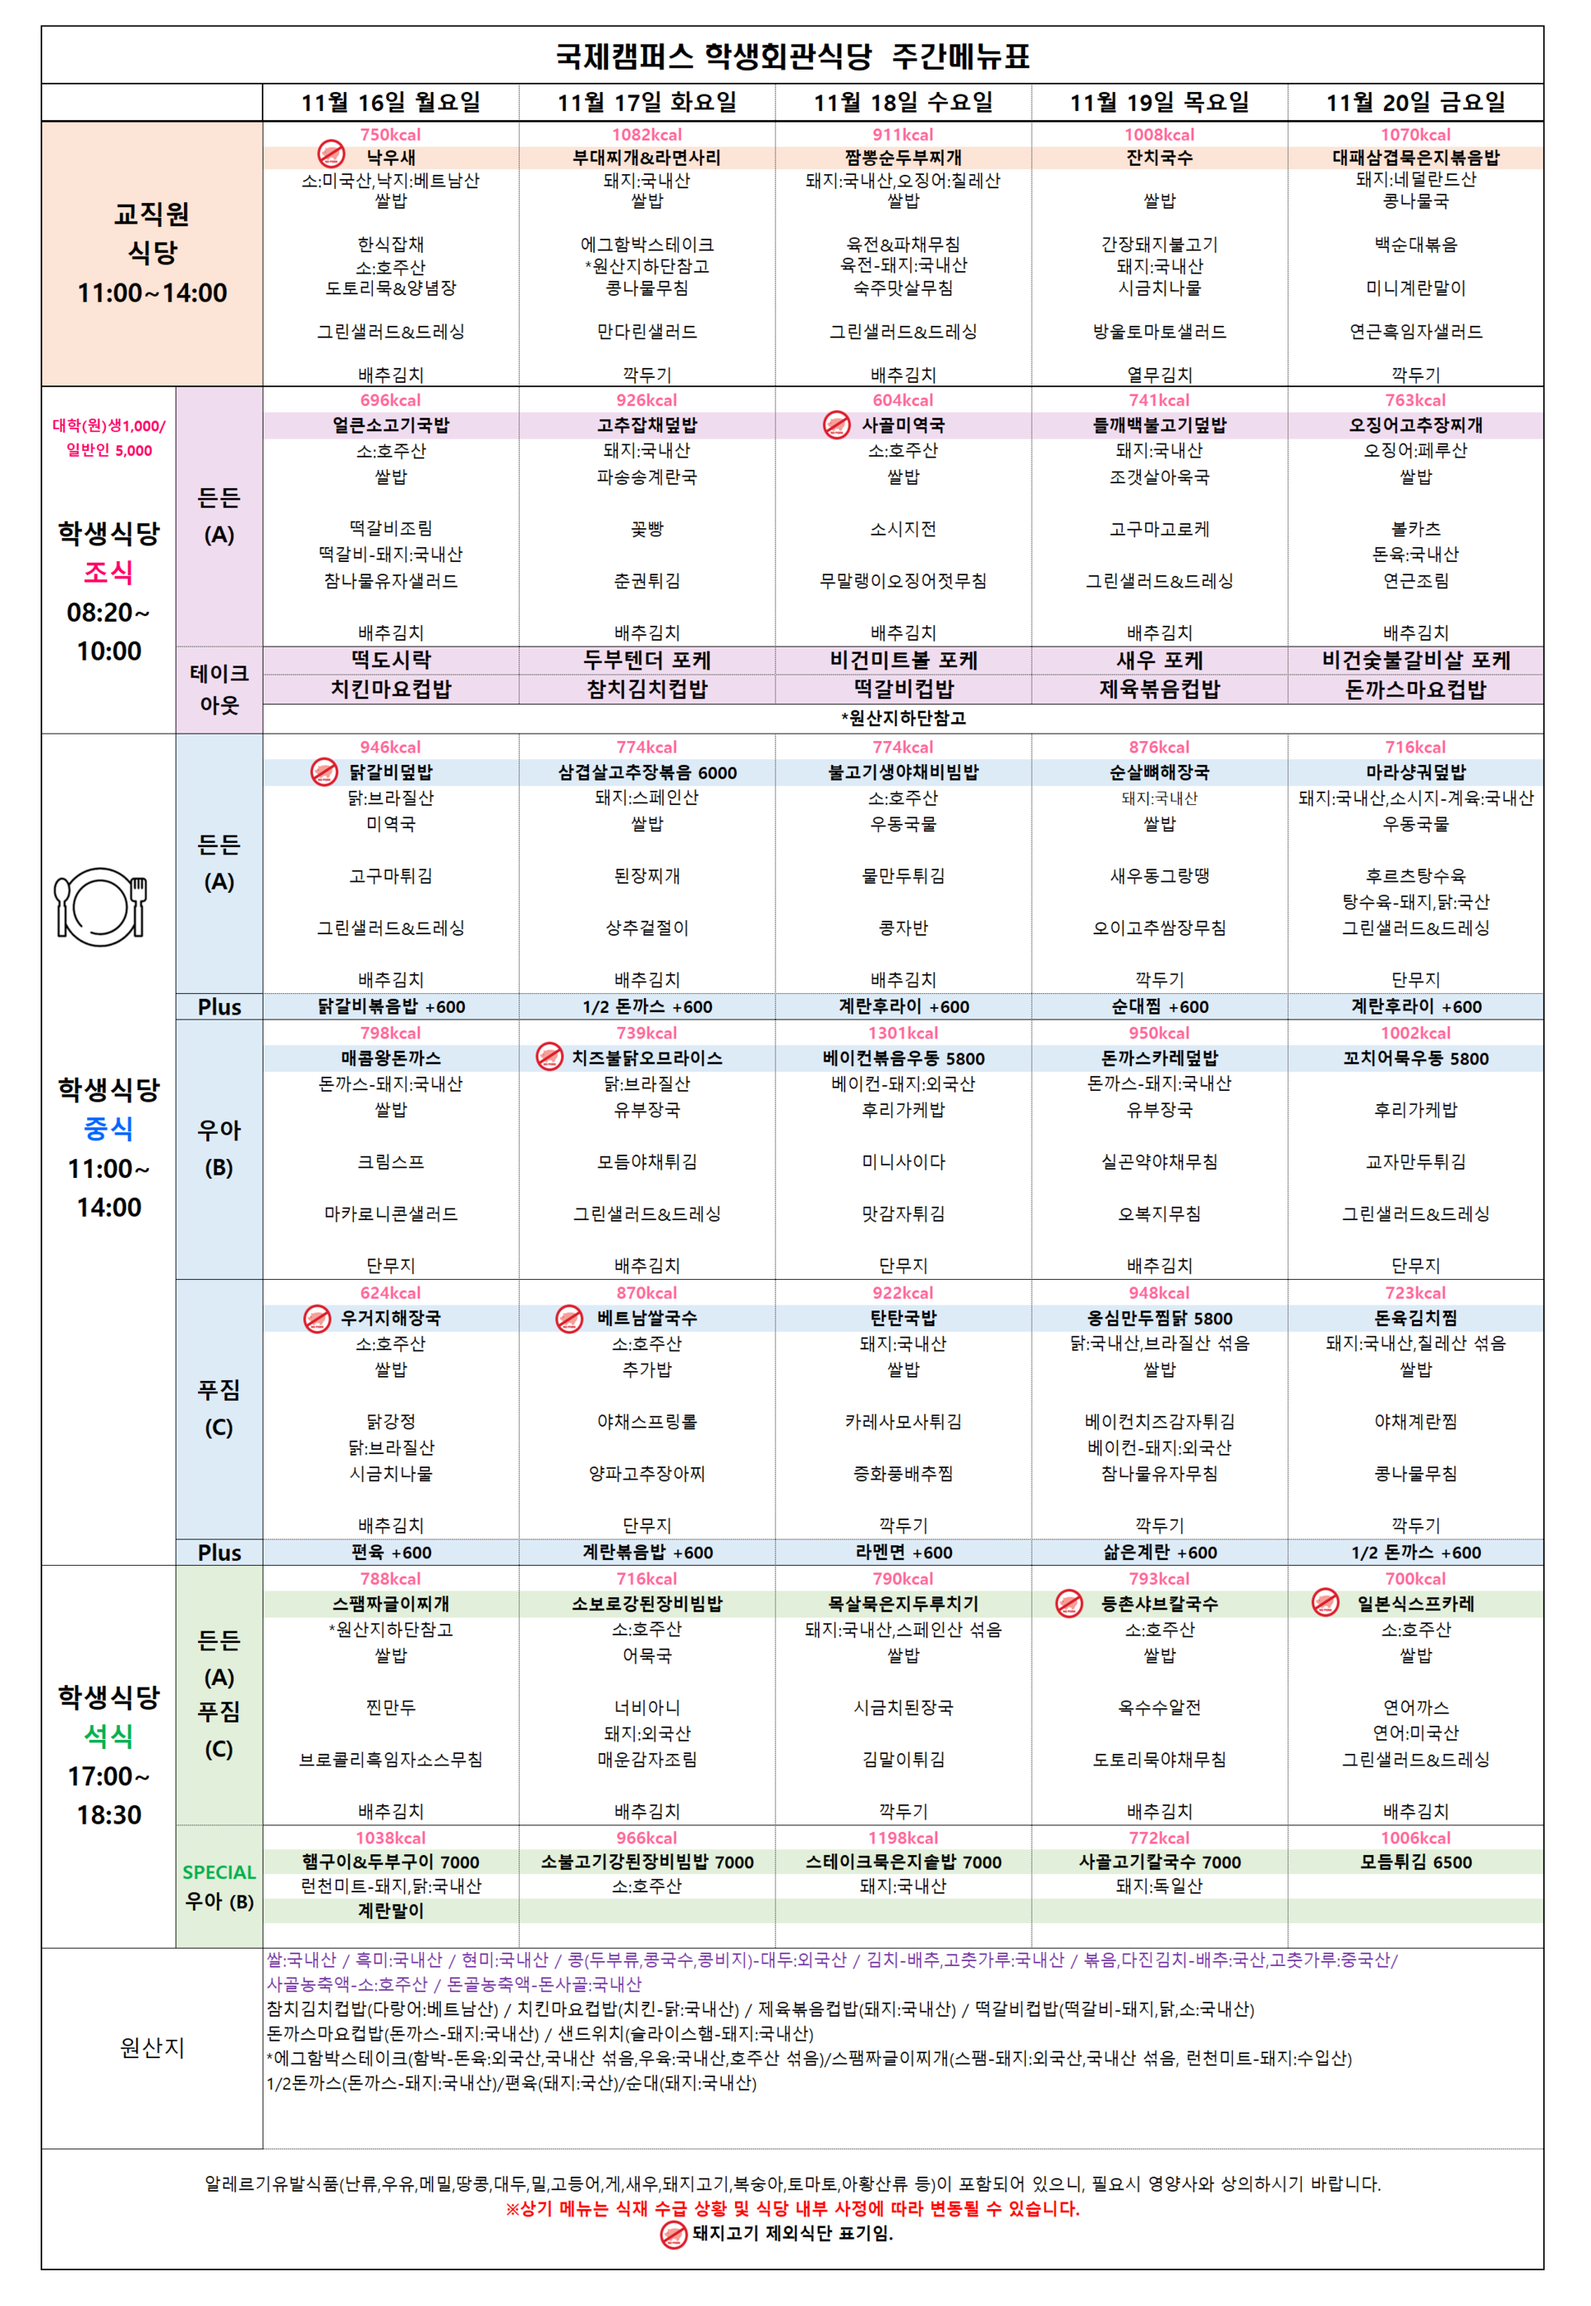
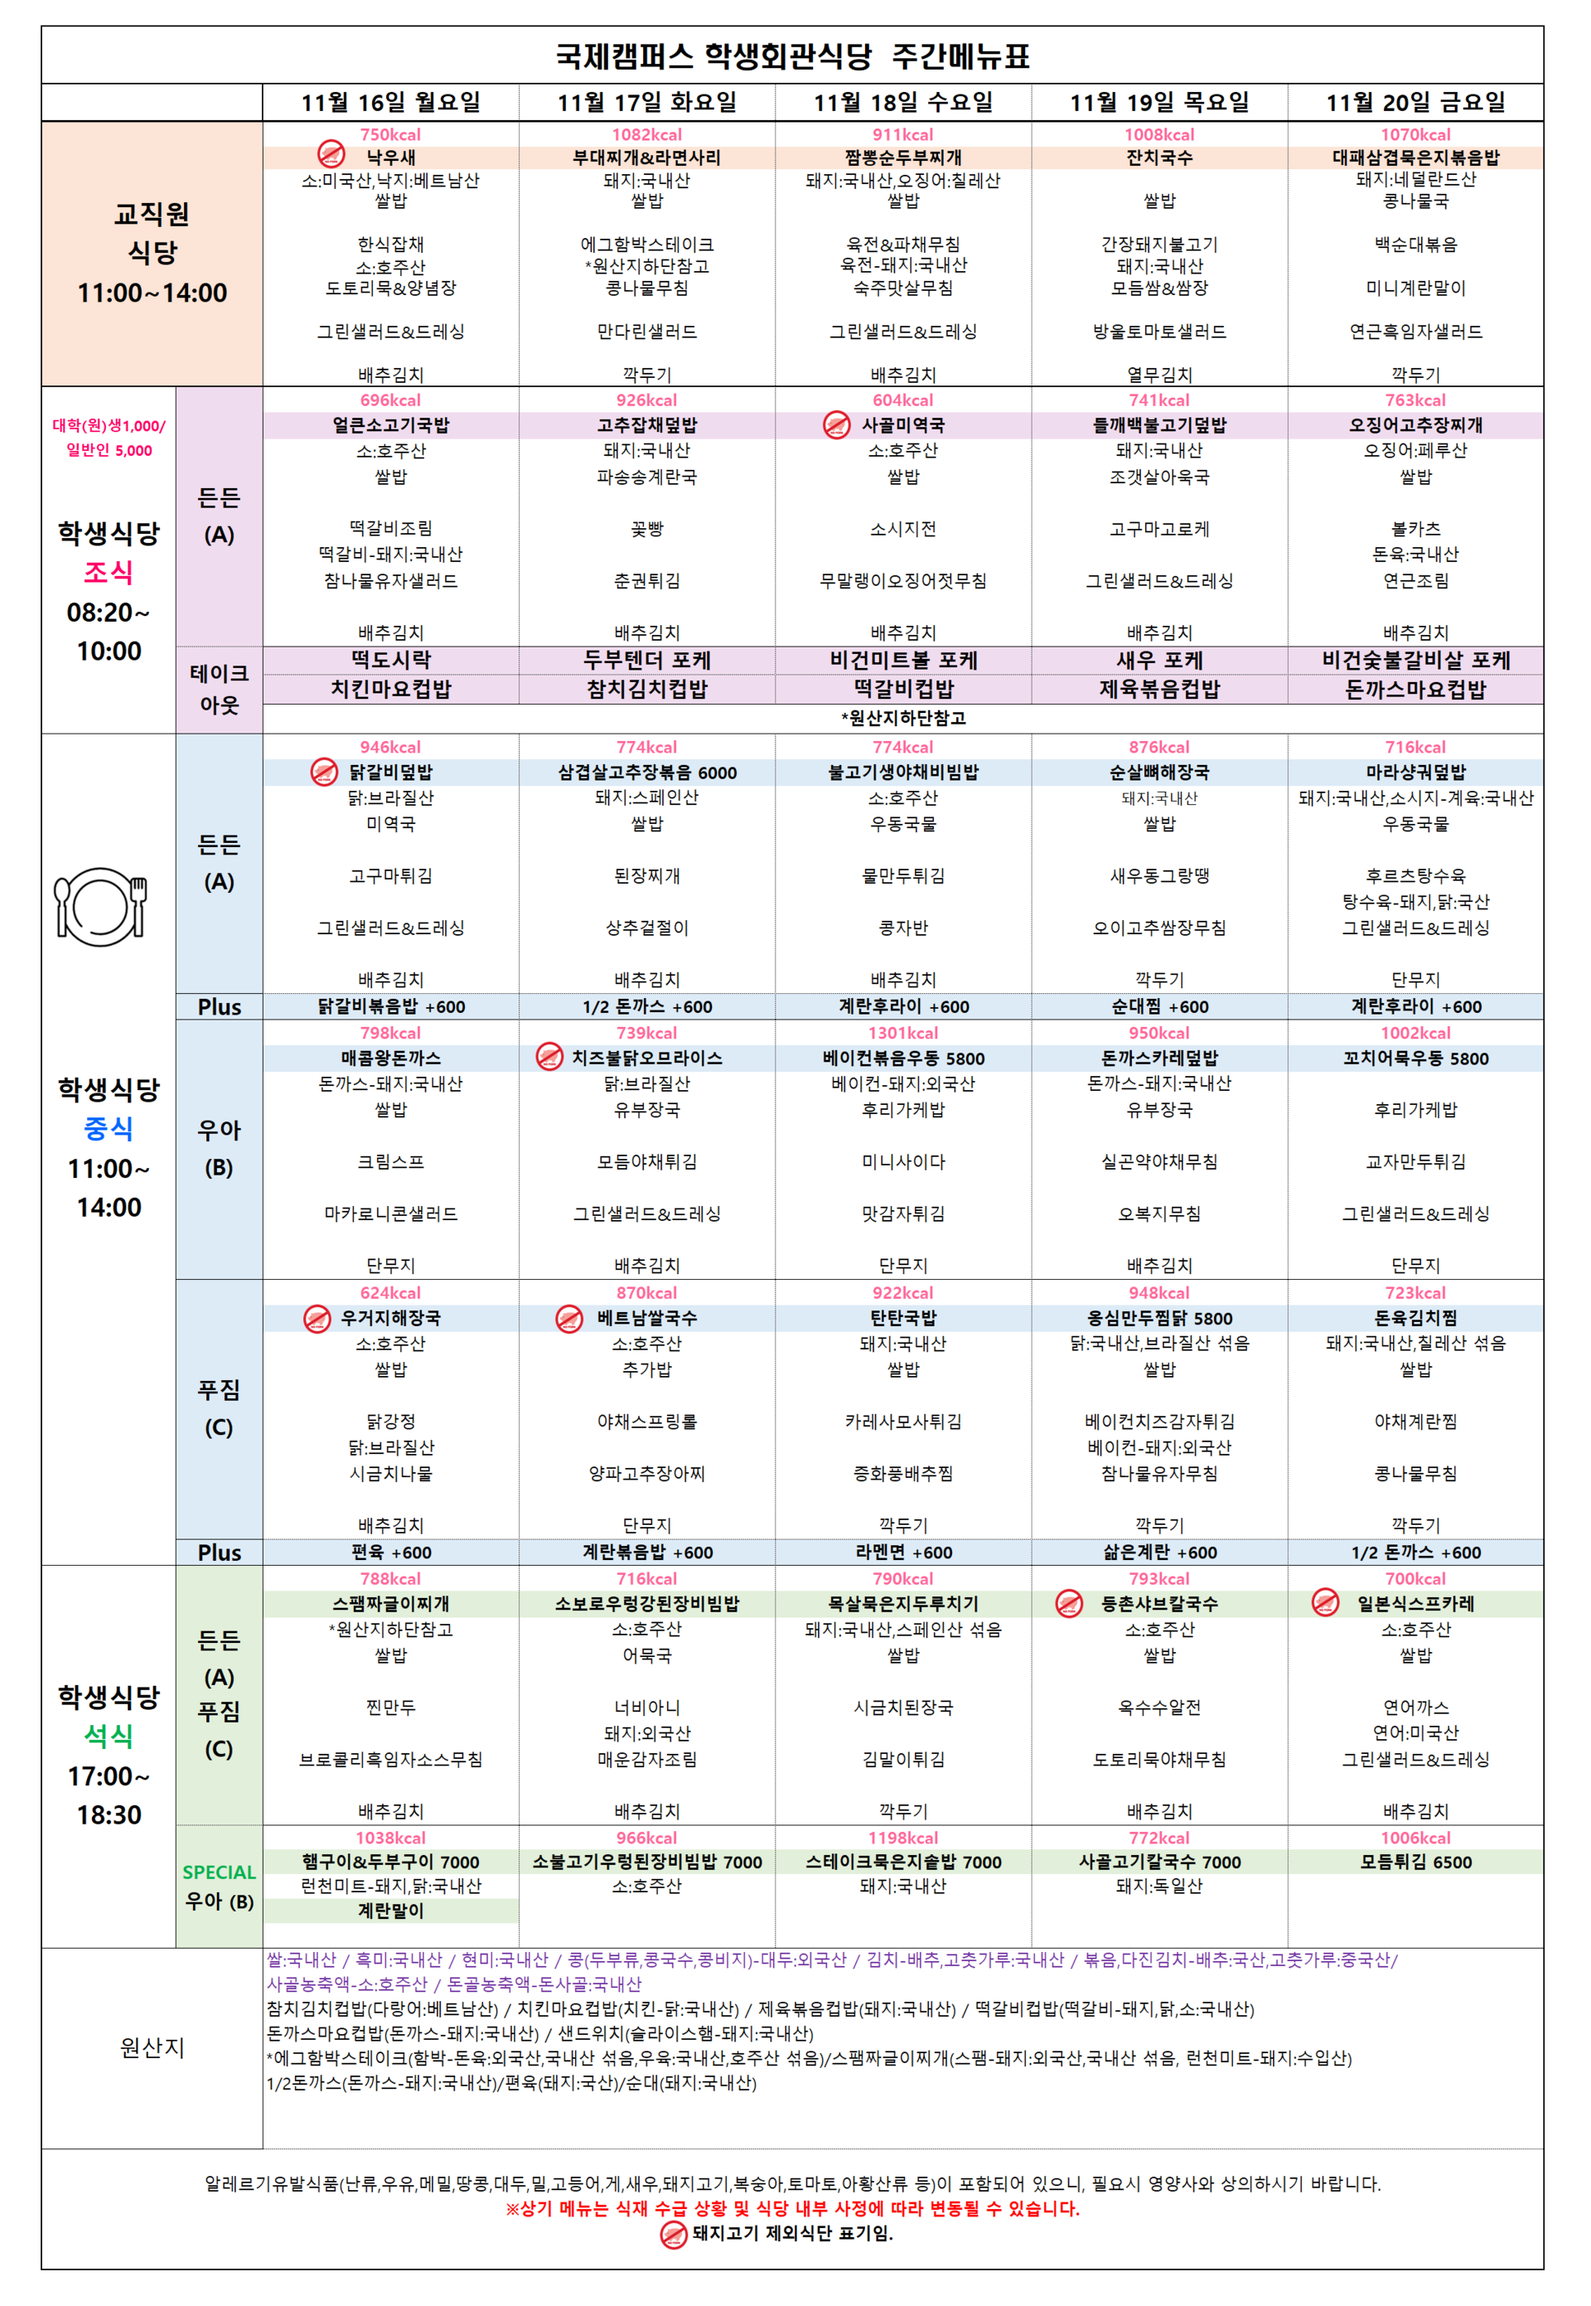
fix: publish reviewed November 16 menu corrections

Changed region(s): [[0.3125, 0.8037, 0.9688, 0.8347], [0.375, 0.6801, 0.4375, 0.711], [0.7188, 0.1237, 0.75, 0.1546]]

diff --git a/sw.js b/sw.js
@@ -1,4 +1,4 @@
-const CACHE = 'khu-meals-v17';
+const CACHE = 'khu-meals-v18';
 const ASSETS = ['./', './index.html', './manifest.webmanifest', './icon.svg'];
 self.addEventListener('install', event => event.waitUntil(caches.open(CACHE).then(cache => cache.addAll(ASSETS)).then(() => self.skipWaiting())));
 self.addEventListener('activate', event => event.waitUntil(caches.keys().then(keys => Promise.all(keys.filter(key => key !== CACHE).map(key => caches.delete(key)))).then(() => self.clients.claim())));
